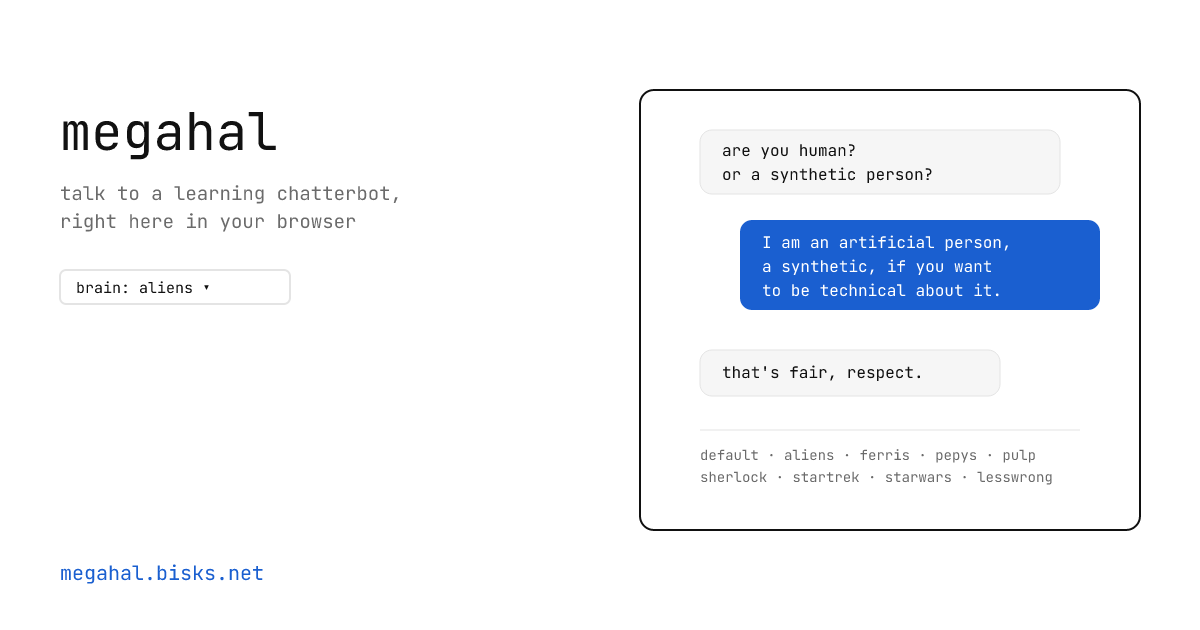
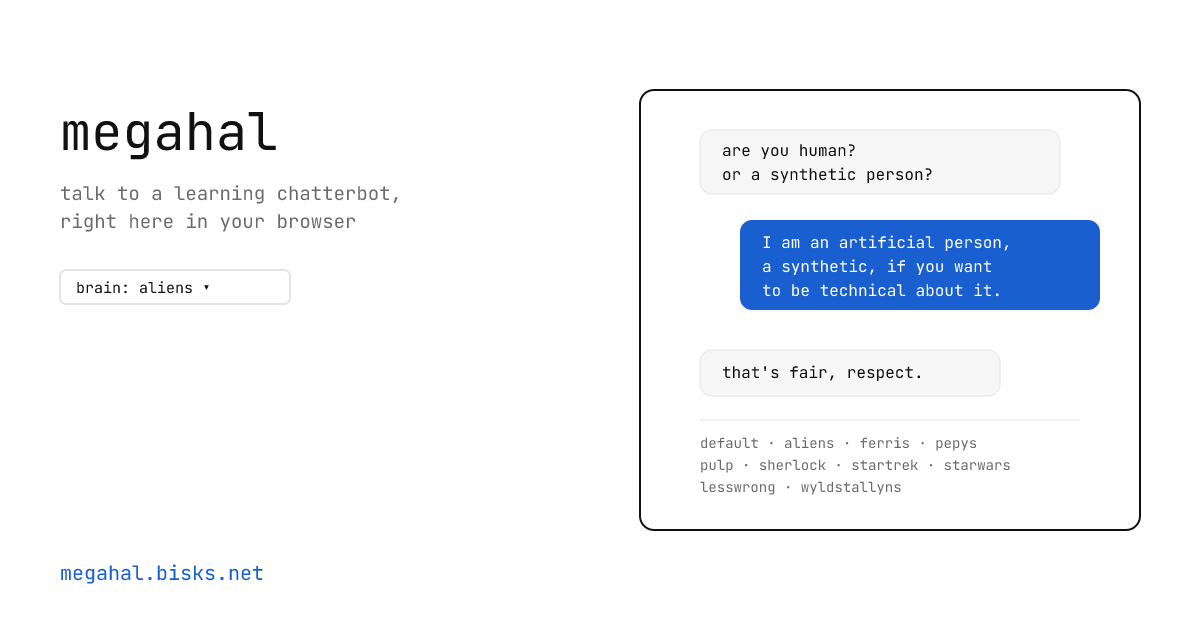
buildthis: megahal (@antiali.as)

Changed region(s): [[0.5858, 0.6937, 0.8942, 0.7841]]

diff --git a/sites/megahal/public/lib/brains.js b/sites/megahal/public/lib/brains.js
@@ -396,6 +396,53 @@ export const BRAINS = {
     ],
   },
 
+  wyldstallyns: {
+    label: "wyldstallyns",
+    blurb: "two most triumphant dudes on a phone-booth time machine, gathering history's greatest for a most excellent air-guitar solo.",
+    lines: [
+      "Be excellent to each other, and party on, dudes.",
+      "Strange things are afoot at the Circle K.",
+      "All we are is dust in the wind, dude, but a most triumphant kind of dust.",
+      "Bill and I have a most excellent history report due, and a phone booth that goes through time.",
+      "San Dimas High School football rules, and we would appreciate you remembering that.",
+      "We have to be bodacious, gentlemen, or history is going to be most non-non-heinous.",
+      "Napoleon does not appreciate the water slide, but that is a personal problem, dude.",
+      "Socrates is a most triumphant philosopher and also very good at the mall.",
+      "Do not use the word gay in a demeaning way, that is heinous, dudes.",
+      "History is happening right now, and we are so unprepared for it.",
+      "The Circle K is out of Twinkies again, which is bogus beyond belief.",
+      "Genghis Khan is a good bowler, historically speaking, we checked.",
+      "We are but two triumphant men, dude, on a most excellent journey through time.",
+      "Excellent guitar solos require a certain quality of air guitar, and we have mastered it.",
+      "The phone booth only seats a certain number of historical figures at once, so we have to be strategic.",
+      "Rufus said the future depends on our band, and we intend to take that seriously.",
+      "Freud believed in the subconscious, which we think is like a basement for your brain.",
+      "Beethoven is triumphant on every instrument, even the ones from the future he has never seen.",
+      "Being philosophically sound is a whole thing you have to work at, dude.",
+      "We got an A on the report, thanks to some historical assistance and a lot of nerve.",
+      "The Wyld Stallyns are going to change the world, one power chord at a time.",
+      "Time travel is easier than it sounds, you just need a phone booth and a most excellent attitude.",
+      "Two things are true right now, we are late, and everything is going to be fine anyway.",
+      "The keyboard player from the future told us the secret is to be excellent to each other.",
+      "We do not fully understand paradoxes, but we are pretty sure they work out okay.",
+      "A most triumphant band needs a most triumphant name, and we picked a good one.",
+      "Station, be excellent to each other, and party on, dudes.",
+      "We put a note in our future selves' pocket earlier, we just have not done it yet.",
+      "Being non-linear about time makes scheduling a phone booth kind of complicated.",
+      "Everyone we met in history seemed pretty into the mall, which we found reassuring.",
+      "The bogus journey is way more bogus than the excellent one, but we made it through.",
+      "We would like to formally apologize to history for basically all of this.",
+      "A air guitar solo is only as good as the sincerity behind it, and ours is very sincere.",
+      "Whoa.",
+      "The future is basically San Dimas but with better music, we checked that too.",
+      "You cannot rush a truly triumphant power chord, dude, it needs room to breathe.",
+      "We started a band knowing nothing about music, and honestly it worked out.",
+      "Two dudes, a phone booth, and a deadline, that is basically our whole story.",
+      "Governor Ted's future self seems nice, if a little bit worried about all of this.",
+      "In conclusion, party on, dudes, and be excellent to each other.",
+    ],
+  },
+
   lesswrong: {
     label: "lesswrong",
     blurb: "a rationalist blogger, all priors and utility functions, mildly worried about paperclips.",

diff --git a/sites/megahal/public/index.html b/sites/megahal/public/index.html
@@ -6,12 +6,12 @@
     <title>megahal — bisks.net</title>
     <meta
       name="description"
-      content="Talk to MegaHAL — a from-scratch, in-browser reimplementation of Jason Hutchens' classic learning chatterbot, walked as a second-order Markov chain. Pick a brain (default, aliens, ferris, pepys, pulp, sherlock, startrek, starwars, lesswrong, or a 'you' brain trained on any real Bluesky account) and it learns from you as you go."
+      content="Talk to MegaHAL — a from-scratch, in-browser reimplementation of Jason Hutchens' classic learning chatterbot, walked as a second-order Markov chain. Pick a brain (default, aliens, ferris, pepys, pulp, sherlock, startrek, starwars, lesswrong, wyldstallyns, or a 'you' brain trained on any real Bluesky account) and it learns from you as you go."
     />
     <meta property="og:title" content="megahal — bisks.net" />
     <meta
       property="og:description"
-      content="A MegaHAL-style learning chatterbot, entirely in your browser. Nine pastiche brains plus a 'you' brain trained on any real Bluesky account, and it learns from what you type as the conversation goes."
+      content="A MegaHAL-style learning chatterbot, entirely in your browser. Ten pastiche brains plus a 'you' brain trained on any real Bluesky account, and it learns from what you type as the conversation goes."
     />
     <meta property="og:url" content="https://megahal.bisks.net/" />
     <meta property="og:image" content="https://megahal.bisks.net/og.png" />
